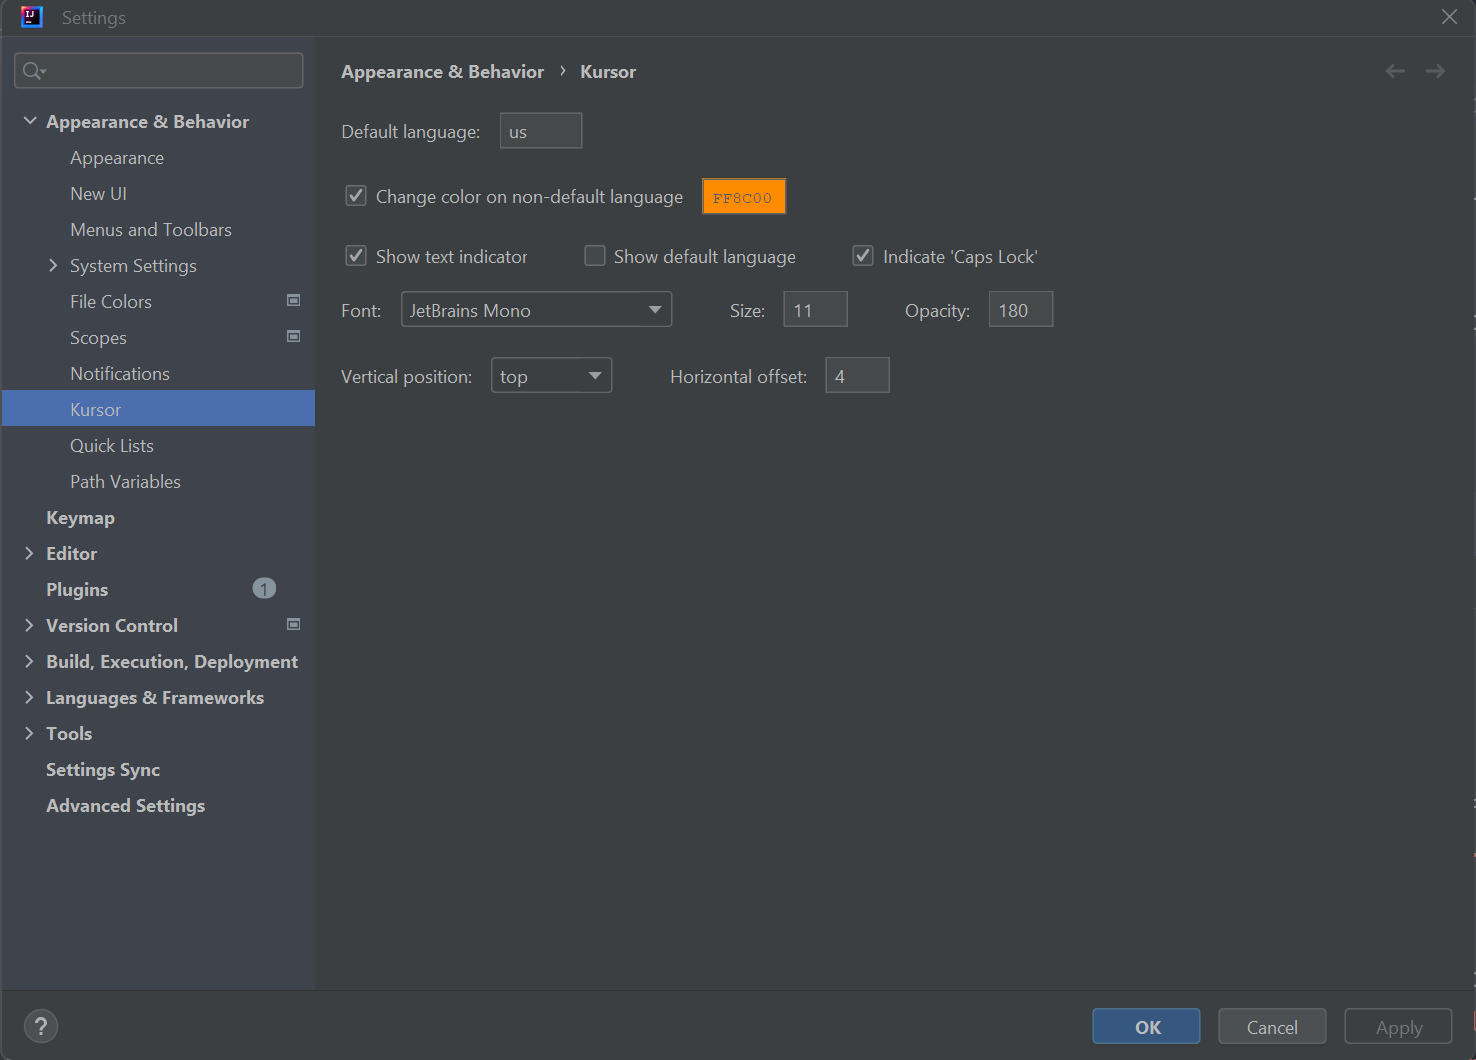
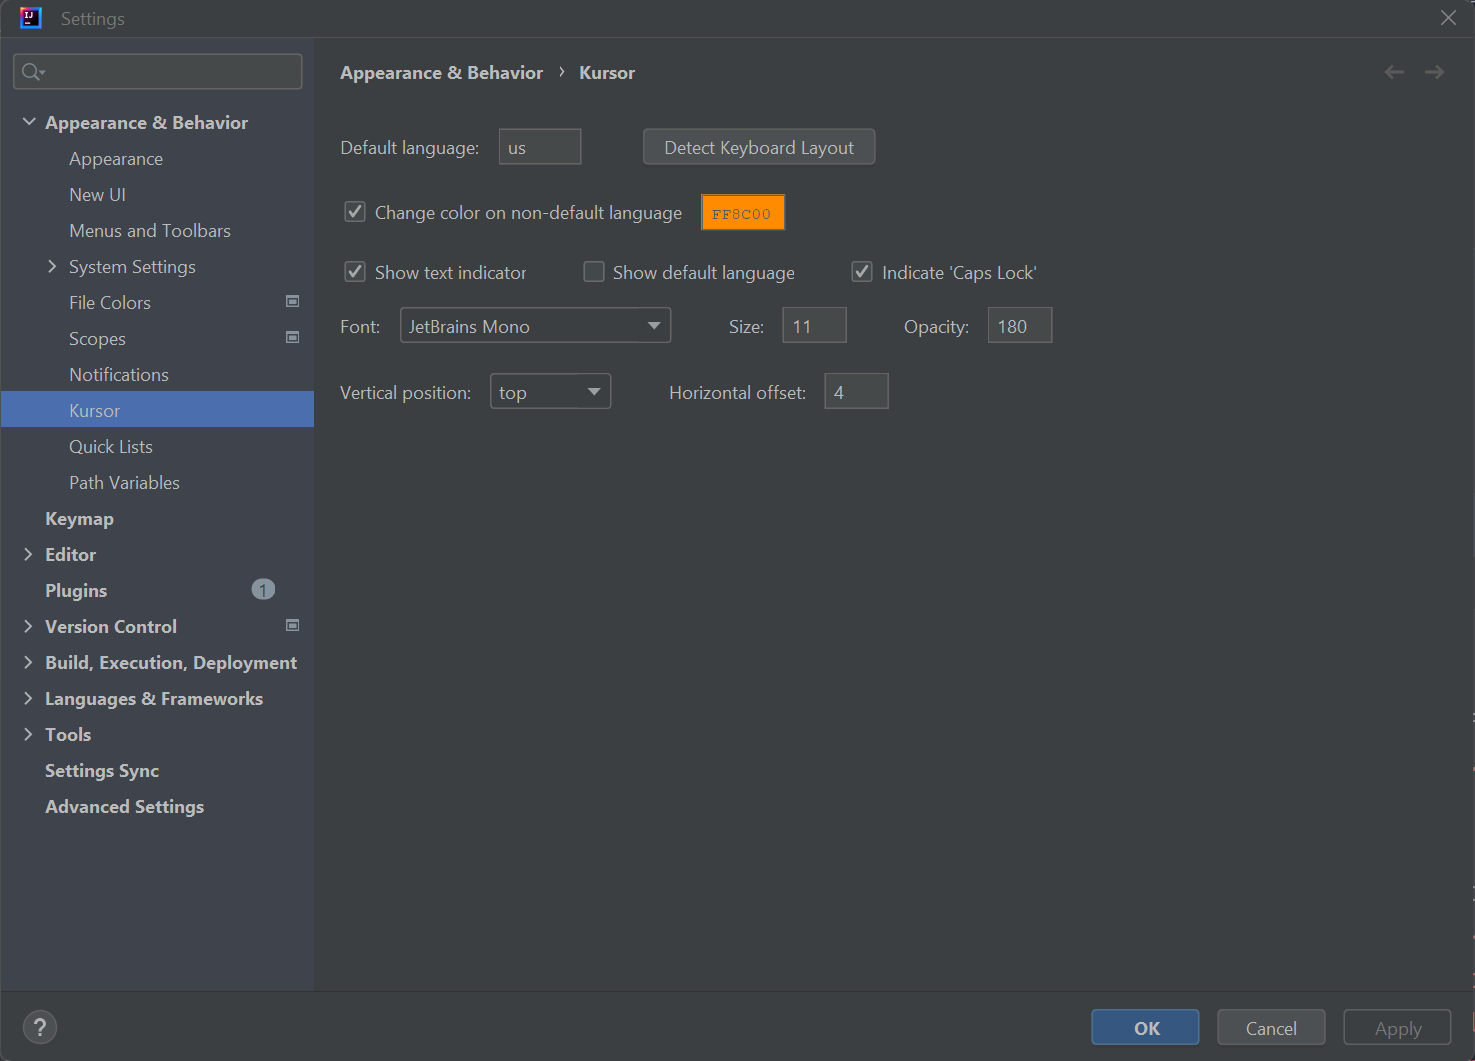
#5 Add "Detect Keyboard Layout" button into plugin settings

diff --git a/src/main/kotlin/com/github/siropkin/kursor/settings/KursorSettingsComponent.kt b/src/main/kotlin/com/github/siropkin/kursor/settings/KursorSettingsComponent.kt
@@ -1,6 +1,7 @@
 package com.github.siropkin.kursor.settings
 
 import com.github.siropkin.kursor.IndicatorPosition
+import com.github.siropkin.kursor.KeyboardLayoutInfo
 import com.intellij.ui.ColorPanel
 import com.intellij.ui.components.JBCheckBox
 import com.intellij.ui.components.JBLabel
@@ -14,7 +15,10 @@ private const val LABEL_SPACING = 10
 private const val COMPONENT_SPACING = 35
 
 class KursorSettingsComponent {
+    private val keyboardLayoutInfo = KeyboardLayoutInfo()
+
     private val defaultLanguageComponent = JBTextField("", 5)
+    private val detectKeyboardLayoutButton = JButton("Detect Keyboard Layout")
 
     private val changeColorOnNonDefaultLanguageComponent = JBCheckBox("Change color on non-default language")
     private val colorOnNonDefaultLanguageComponent = ColorPanel()
@@ -32,7 +36,7 @@ class KursorSettingsComponent {
     private val indicatorHorizontalOffsetComponent = JBTextField()
 
     var panel: JPanel = FormBuilder.createFormBuilder()
-        .addLabeledComponent("Default language:", defaultLanguageComponent, 1, false)
+        .addComponent(createLanguagePanel())
         .addComponent(createColorPanel())
         .addComponent(createIndicatorPanel())
         .addComponent(createPositionPanel())
@@ -130,6 +134,20 @@ class KursorSettingsComponent {
                 // indicatorHorizontalOffsetComponent.text = ""
             }
         }
+
+    private fun createLanguagePanel(): JPanel {
+        val languagePanel = JPanel()
+        languagePanel.layout = GridBagLayout()
+        languagePanel.add(JBLabel("Default language:"), createRbc(0, 0, 0.0))
+        languagePanel.add(defaultLanguageComponent, createRbc(1, 0, 0.0, LABEL_SPACING))
+        languagePanel.add(detectKeyboardLayoutButton, createRbc(2, 0, 1.0, COMPONENT_SPACING))
+
+        detectKeyboardLayoutButton.addActionListener {
+            defaultLanguageComponent.text = keyboardLayoutInfo.getLayout().toString()
+        }
+
+        return languagePanel
+    }
 
     private fun createColorPanel(): JPanel {
         val colorPanel = JPanel()

diff --git a/CHANGELOG.md b/CHANGELOG.md
@@ -6,6 +6,7 @@
 ### Changed
 - Improved keyboard layout detection across different operating systems, ensuring more accurate language tracking.
 - Transitioned the "Default Language" setting from a ComboBox component to an Input component, allowing for custom default language input and enhancing flexibility beyond pre-filled options.
+- Added "Detect Keyboard Layout" button to the settings page, enabling users to manually detect their keyboard layout and update the default language accordingly.
 
 ### For Contributors and Developers
 - Updated Gradle to version 8.9 to align with the latest development practices and ensure compatibility.
